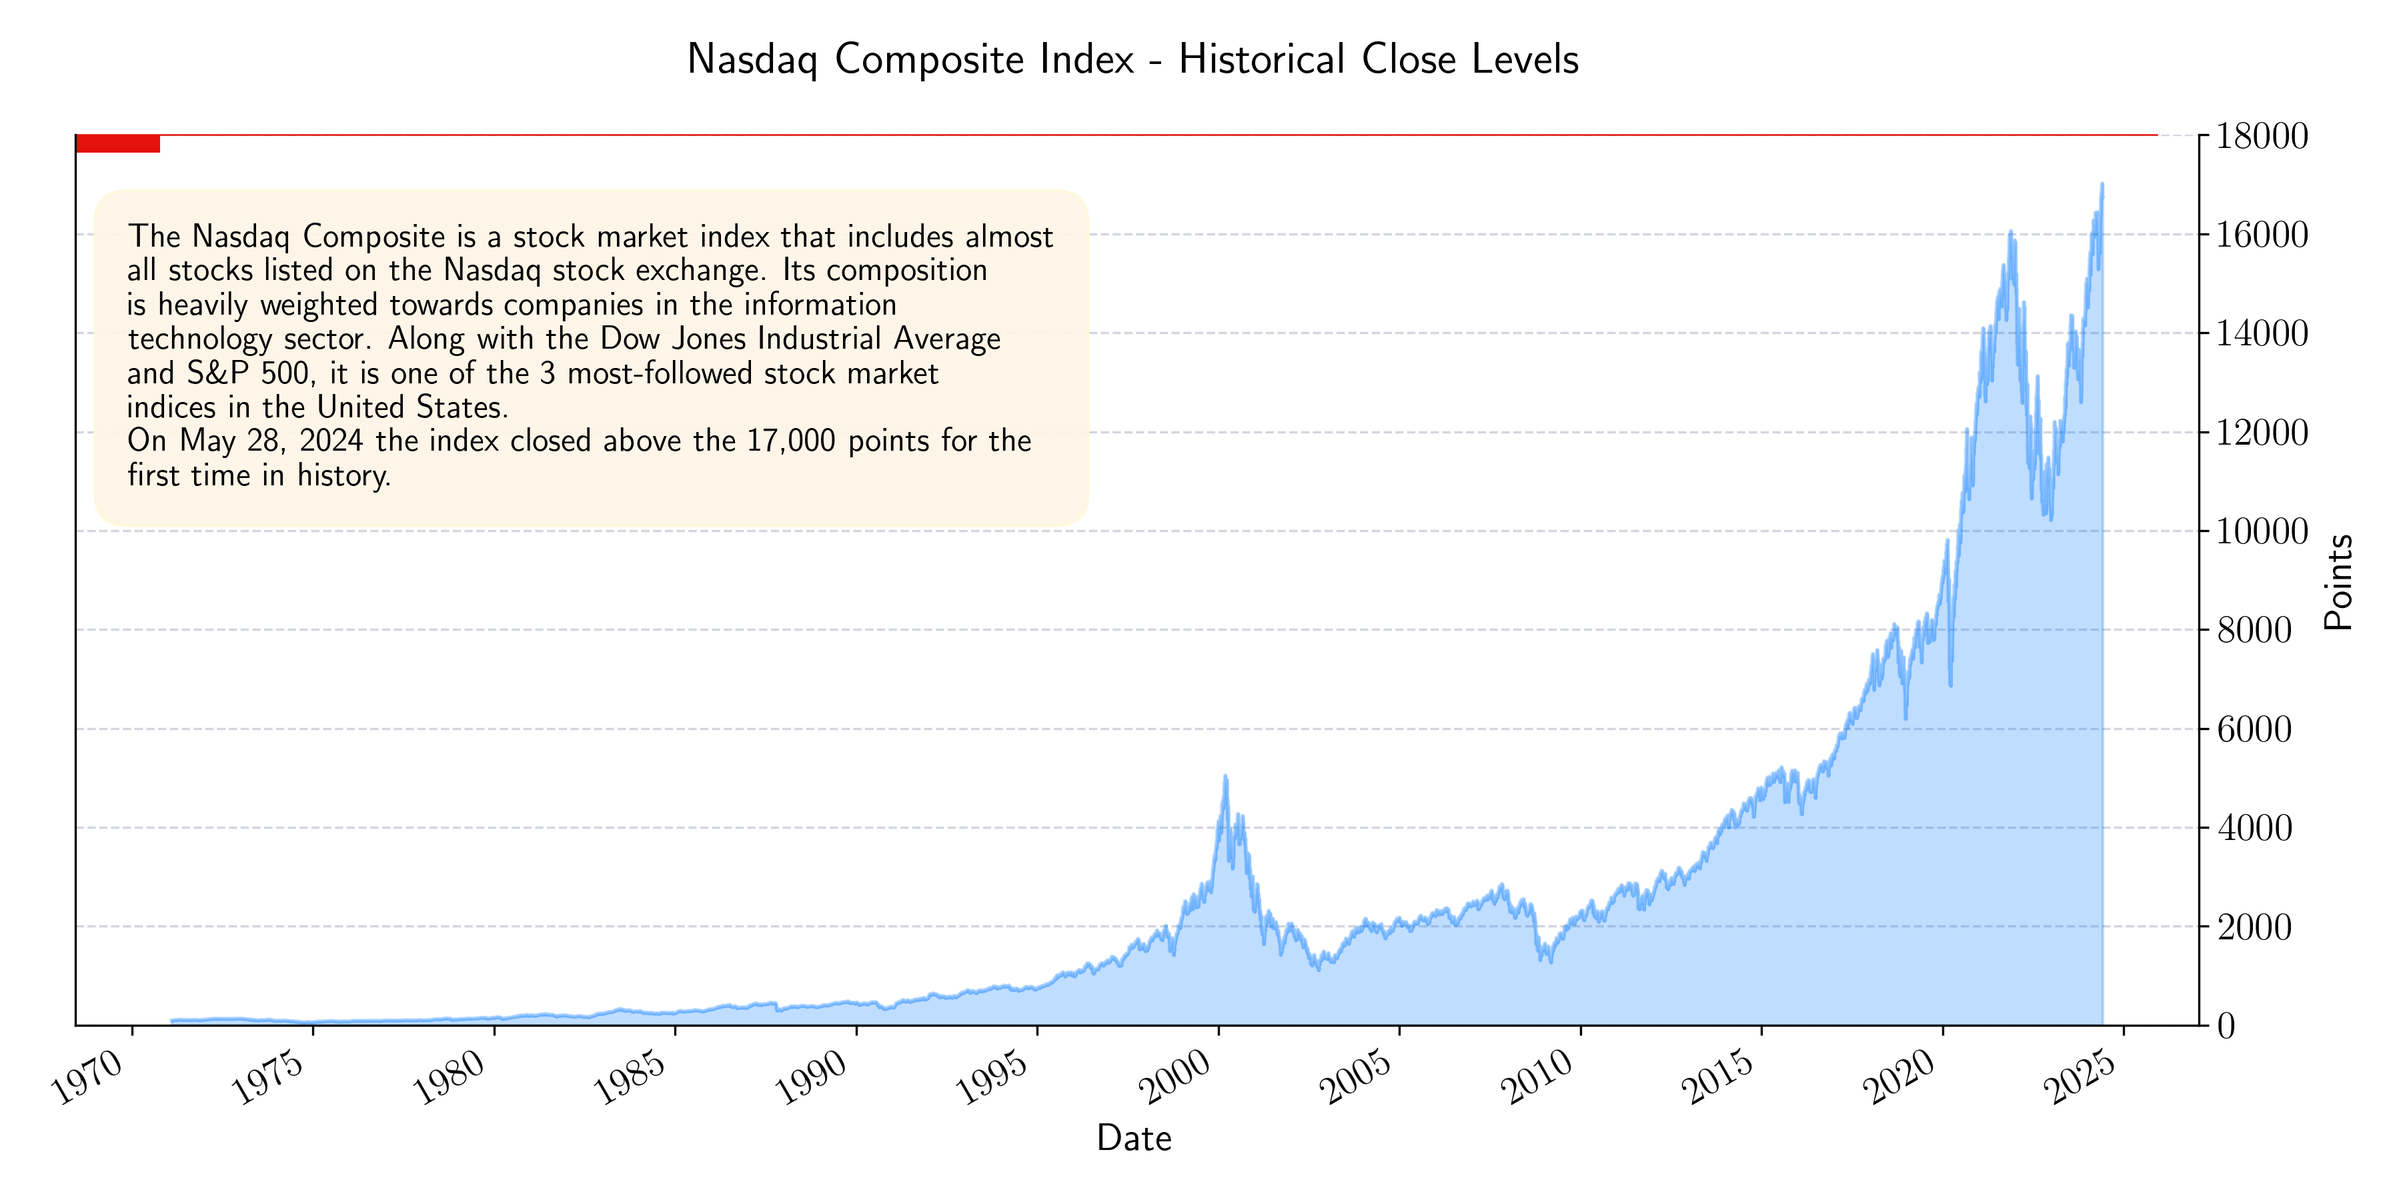
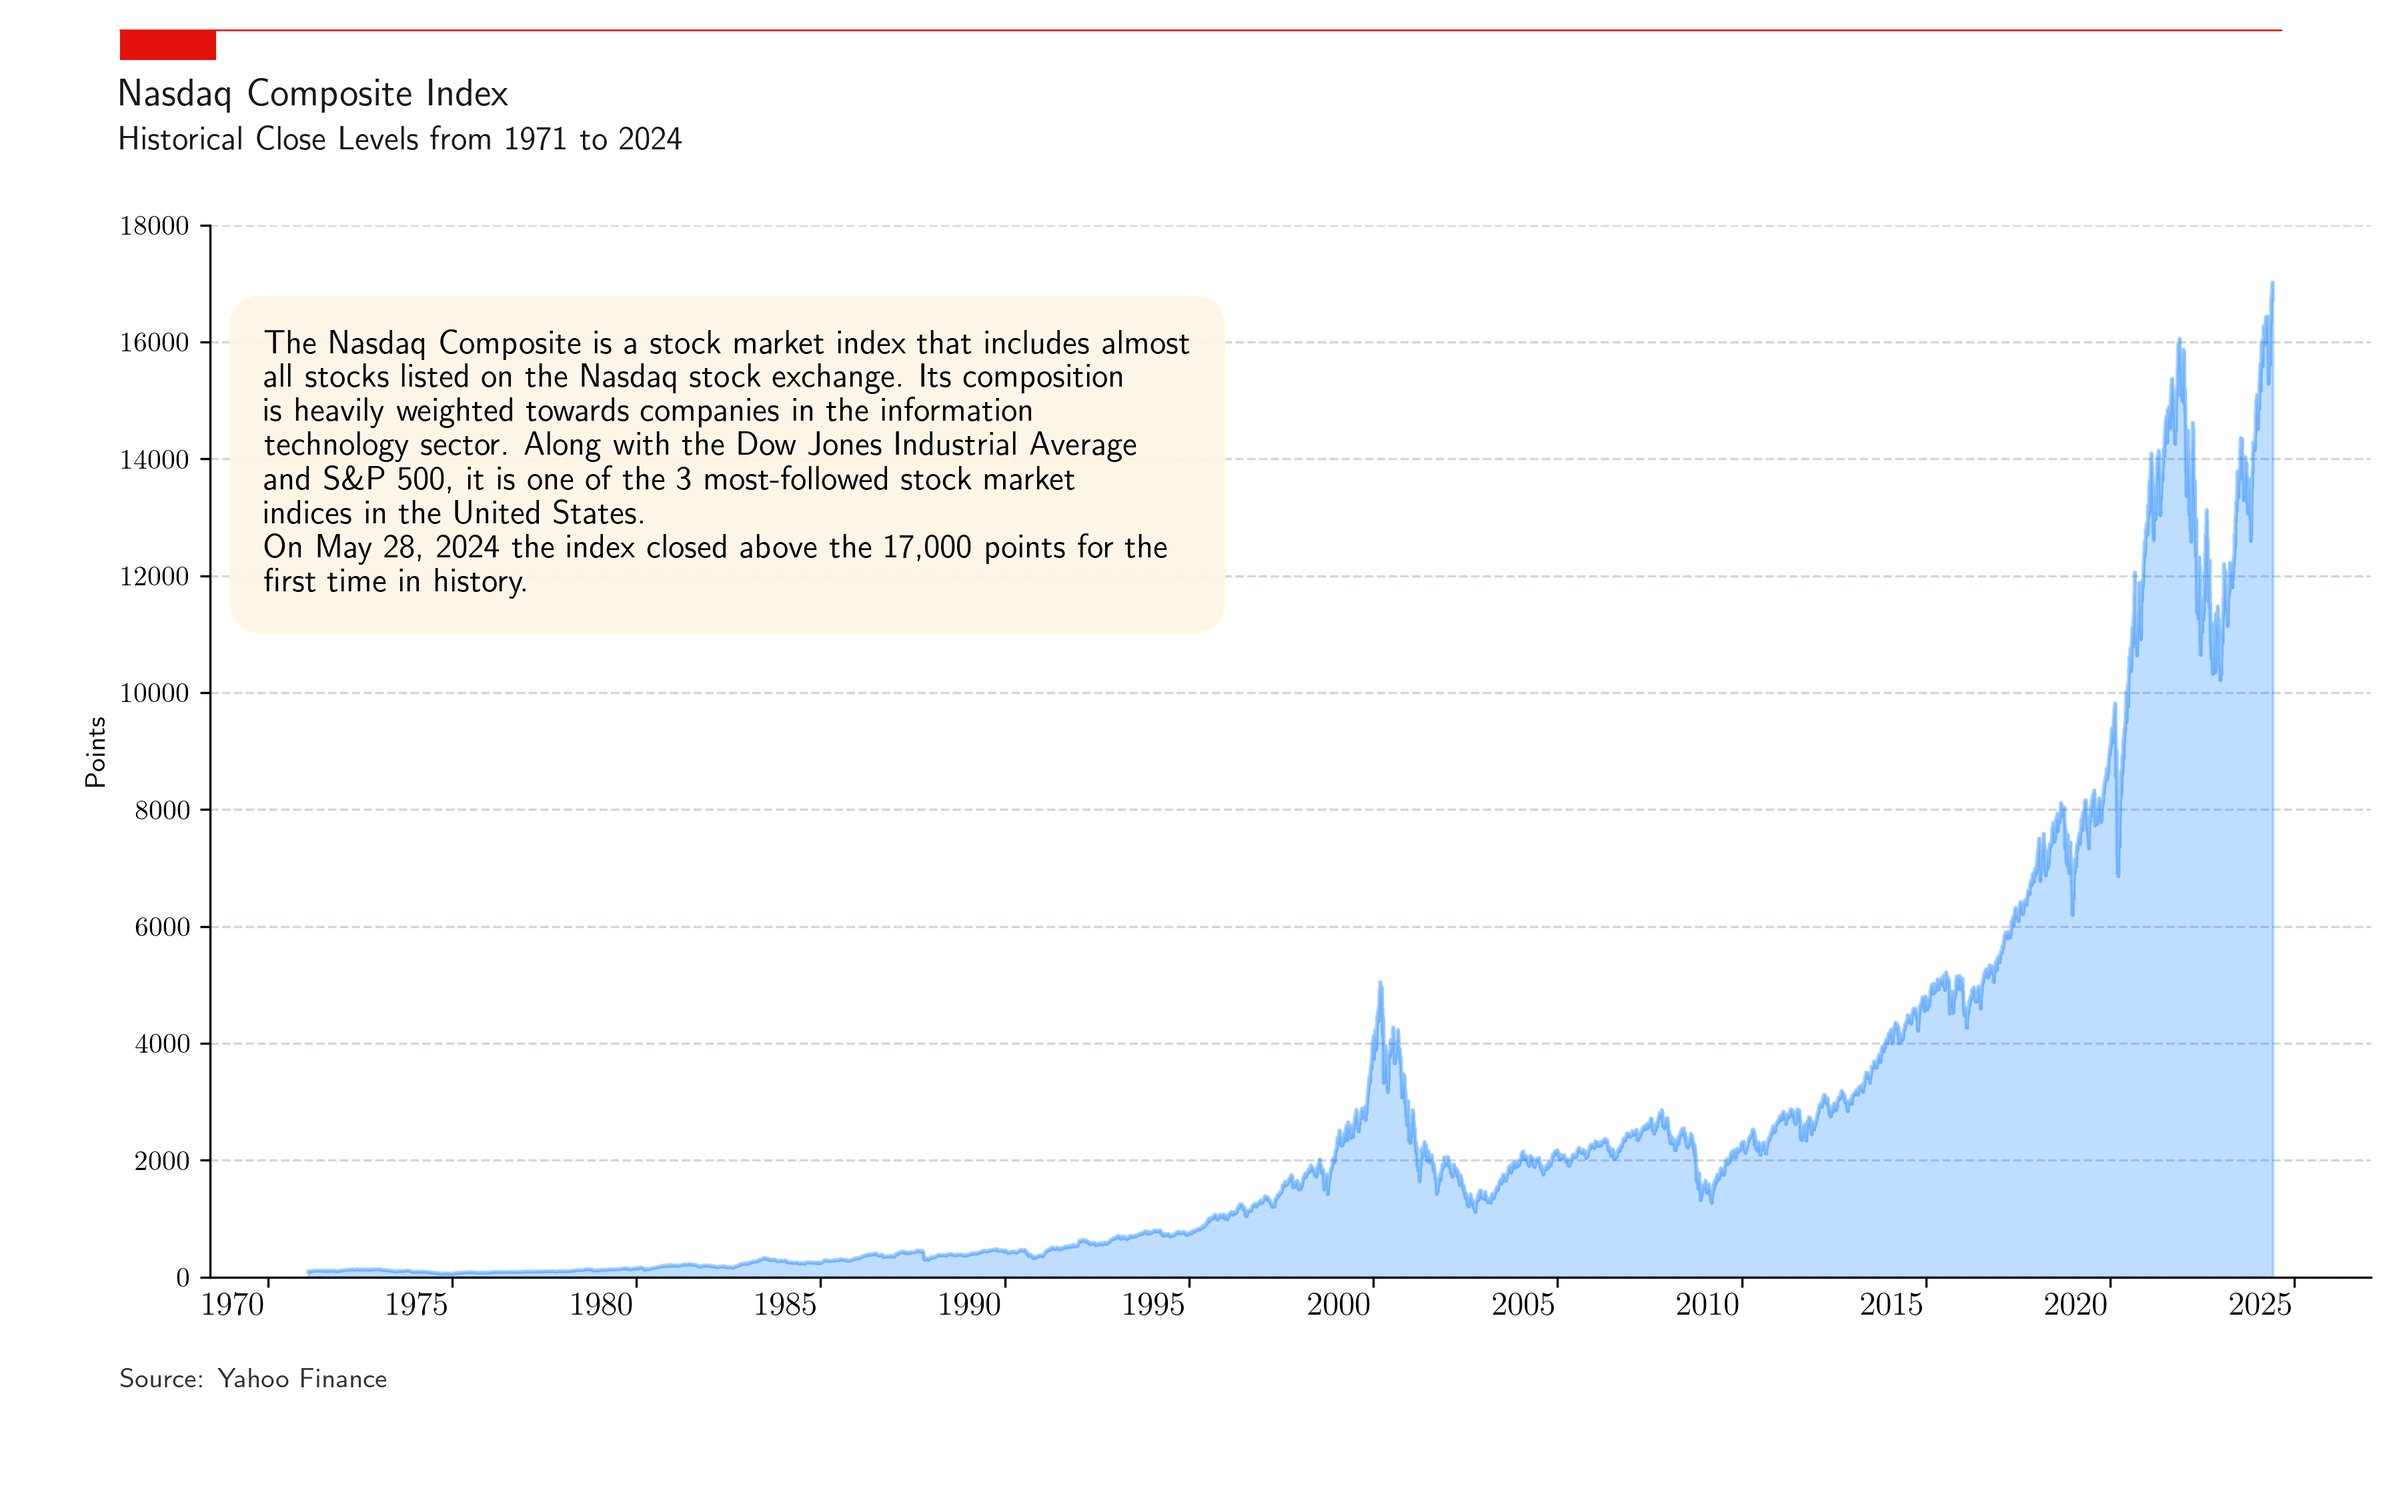
Updated Monthly charts

diff --git a/Monthly_Letters/scripts/May_Nasdaq_matplotlib.py b/Monthly_Letters/scripts/May_Nasdaq_matplotlib.py
@@ -7,40 +7,52 @@ plt.style.use(quant_pastel)
 
 plt.rc('font', family='sans-serif')
 plt.rc('font', serif='Apple SD Gothic Neo')
-plt.rcParams.update({'font.size': 14})
+# plt.rcParams.update({'font.size': 14})
 
-data = yf.download('^IXIC')
+#  Index Chart
 
 
+# Create the figure and axes object
+fig, ax = plt.subplots(figsize=(12., 7.5), dpi=100)
 
-ax = data['Close'].plot.area(figsize=(12, 6), alpha=0.25)
+data_index = yf.download('^IXIC')
+data_index['Close'].plot.area(alpha=0.25, ax=ax)
 
-ax.set_title("Nasdaq Composite Index - Historical Close Levels\n", fontsize=16)
-ax.set_xlabel('Date')
+ax.set_xlabel('')
 ax.set_ylabel(r'Points')
 
 # Add in red line and rectangle on top
-ax.plot([0.0, .98], [1., 1.], transform=ax.transAxes, clip_on=False, color='#E3120B', linewidth=.6)
-ax.add_patch(plt.Rectangle((0.0,1.), 0.04, -0.02, facecolor='#E3120B', transform=ax.transAxes, clip_on=False, linewidth = 0))
+ax.plot([0.05, .95], [.98, .98], transform=fig.transFigure, clip_on=False, color='#E3120B', linewidth=.6)
+ax.add_patch(plt.Rectangle((0.05, .98), 0.04, -0.02, facecolor='#E3120B', transform=fig.transFigure,
+                           clip_on=False, linewidth=0))
+
+# Add in title and subtitle
+ax.text(x=0.05, y=.93, s="Nasdaq Composite Index", transform=fig.transFigure, ha='left', fontsize=14, weight='bold',
+        alpha=.9)
+ax.text(x=0.05, y=.90, s="Historical Close Levels from 1971 to 2024", transform=fig.transFigure, ha='left', fontsize=12,
+        alpha=.9)
+
+# Set source text
+ax.text(x=0.05, y=0.075, s="Source: Yahoo Finance", transform=fig.transFigure, ha='left', fontsize=10, alpha=.8)
+
+# Adjust the margins around the plot area
+plt.subplots_adjust(left=None, bottom=0.2, right=None, top=0.85, wspace=None, hspace=None)
 
 # format the ticks only for years on the major ticks
-years = mdates.YearLocator(5)   # every 5 year
+years = mdates.YearLocator(5)  # every 5 year
 years_fmt = mdates.DateFormatter('%Y')
 
 ax.xaxis.set_major_locator(years)
 ax.xaxis.set_major_formatter(years_fmt)
+ax.xaxis.set_tick_params(pad=2, labelbottom=True, bottom=True, labelsize=12, labelrotation=0)
 
 ax.set_ylim(0, 18000)
-ax.yaxis.tick_right()
-ax.yaxis.set_label_position("right")
-
-ax.xaxis.grid() # horizontal lines
+ax.xaxis.grid()  # horizontal lines
 ax.set_axisbelow(True)
 
-ax.spines[['top']].set_visible(False)
-ax.spines[['right', 'bottom']].set_visible(True)
+ax.spines[['right', 'top']].set_visible(False)
+ax.spines[['bottom']].set_visible(True)
 
-# matplotlib.patch.Patch properties
 props = dict(boxstyle='round, pad=1', facecolor='oldlace', edgecolor='cornsilk', alpha=0.95)
 
 my_text = '\n'.join((r'The Nasdaq Composite is a stock market index that includes almost ',
@@ -51,15 +63,16 @@ my_text = '\n'.join((r'The Nasdaq Composite is a stock market index that include
                      r'indices in the United States. ',
                      r'On May 28, 2024 the index closed above the 17,000 points for the ',
                      r'first time in history. '
-                    ))
+                     ))
 
 ax.text(0.025, 0.9, my_text, transform=ax.transAxes, fontsize=12,
         verticalalignment='top', bbox=props)
 
 plt.tight_layout()
-ax.figure.savefig("../charts/05_may_nasdaq", dpi=300)
+ax.figure.savefig("../charts/05_may_nasdaq", dpi=200)
 plt.show()
 
+# 5 Largest Components Nasdaq
 
 tickers = ['MSFT', 'AAPL', 'NVDA', 'AMZN', 'META']
 data = yf.download(tickers, start='2014-01-01', )
@@ -70,8 +83,8 @@ highs = [('Close', 'MSFT'),
          ('Close', 'META'),
          ]
 
-ax = data[highs].plot(figsize=(12, 8))
-ax.set_title(label="Nasdaq Composite Largest Components - Historical Close Prices", fontsize=16)
+fig, ax = plt.subplots(figsize=(12., 7.5), dpi=100)
+data[highs].plot(figsize=(12, 8), ax=ax)
 ax.set_xlabel('Date')
 ax.set_ylabel(r'Price (\$)')
 
@@ -83,12 +96,31 @@ ax.set_axisbelow(True)
 ax.spines[['top']].set_visible(False)
 ax.spines[['right', 'bottom']].set_visible(True)
 
- # Add in red line and rectangle on top
-ax.plot([0.0, .98], [1., 1.], transform=ax.transAxes, clip_on=False, color='#E3120B', linewidth=.6)
-ax.add_patch(plt.Rectangle((0.0,1.), 0.04, -0.02, facecolor='#E3120B', transform=ax.transAxes, clip_on=False, linewidth = 0))
+years = mdates.YearLocator(2)  # every 2 year
+years_fmt = mdates.DateFormatter('%Y')
 
+ax.xaxis.set_major_locator(years)
+ax.xaxis.set_major_formatter(years_fmt)
+ax.xaxis.set_tick_params(pad=2, labelbottom=True, bottom=True, labelsize=12, labelrotation=0)
+
+# Add in red line and rectangle on top
+ax.plot([0.05, .95], [.98, .98], transform=fig.transFigure, clip_on=False, color='#E3120B', linewidth=.6)
+ax.add_patch(plt.Rectangle((0.05, .98), 0.04, -0.02, facecolor='#E3120B', transform=fig.transFigure,
+                           clip_on=False, linewidth=0))
+
+# Add in title and subtitle
+ax.text(x=0.05, y=.93, s="Nasdaq Composite 5 Largest Components", transform=fig.transFigure, ha='left', fontsize=14,
+        weight='bold', alpha=.9)
+ax.text(x=0.05, y=.90, s="Historical Close Prices from 2014 to 2024", transform=fig.transFigure, ha='left', fontsize=12,
+        alpha=.9)
+
+# Set source text
+ax.text(x=0.05, y=0.075, s="Source: Yahoo Finance", transform=fig.transFigure, ha='left', fontsize=10, alpha=.8)
+
+# Adjust the margins around the plot area
+plt.subplots_adjust(left=None, bottom=0.2, right=None, top=0.85, wspace=None, hspace=None)
 
 plt.tight_layout()
-ax.figure.savefig("../charts/05_may_nasdaq_largest_components", dpi=300)
+ax.figure.savefig("../charts/05_may_nasdaq_largest_components", dpi=200)
 
 plt.show()
